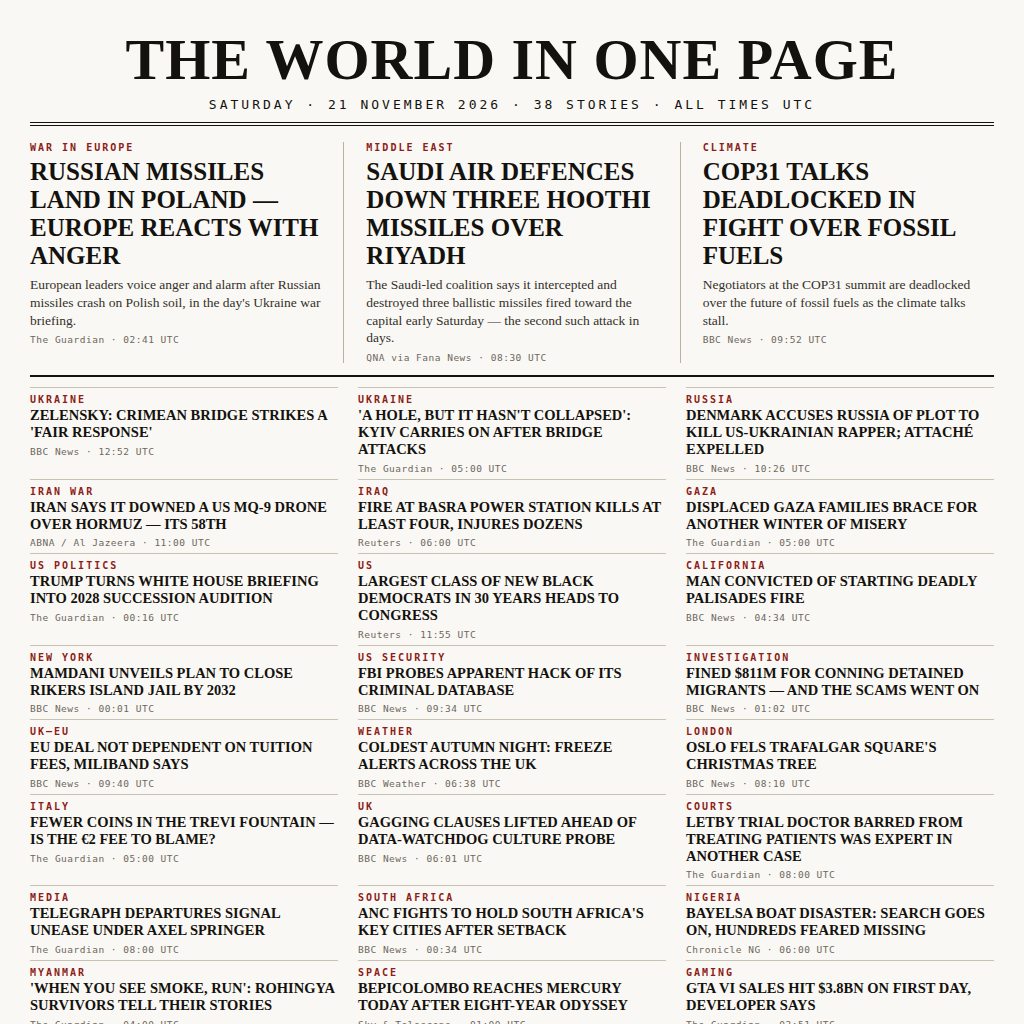
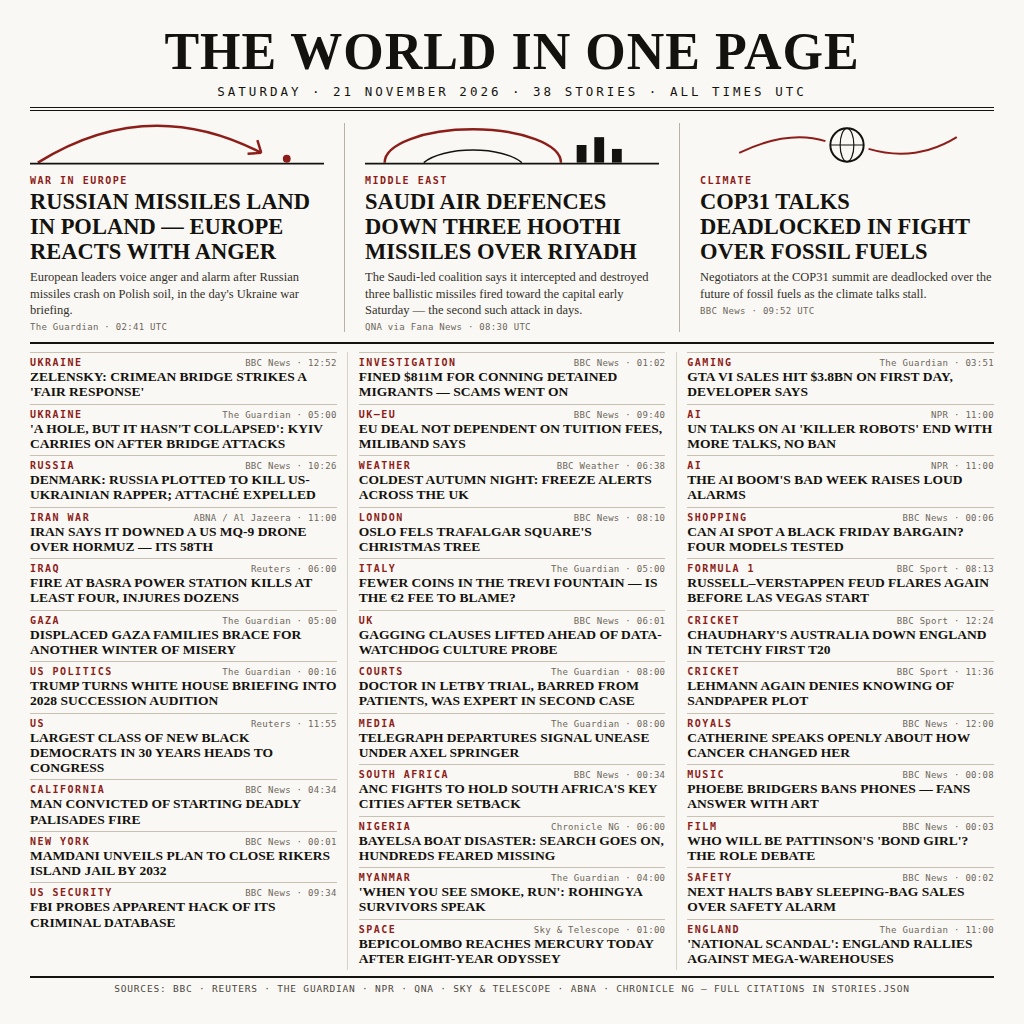
Pass 2: full composition — lead art, compact one-line tile meta, column flow, headline trims

Changed region(s): [[0.0312, 0.0312, 0.9688, 1.0]]

diff --git a/render/page.html b/render/page.html
@@ -5,34 +5,37 @@
     width: 1024px; height: 1024px; overflow: hidden;
     background: #faf8f4; color: #14120e;
     font-family: Georgia, "Times New Roman", "DejaVu Serif", serif;
-    padding: 26px 30px 18px;
+    padding: 22px 30px 14px;
   }
-  .masthead { text-align: center; border-bottom: 4px double #14120e; padding-bottom: 10px; }
-  .masthead h1 { font-size: 58px; letter-spacing: 1px; font-weight: 900; }
+  .masthead { text-align: center; border-bottom: 4px double #14120e; padding-bottom: 8px; }
+  .masthead h1 { font-size: 52px; letter-spacing: 1px; font-weight: 900; }
   .dateline {
-    font-family: "DejaVu Sans Mono", monospace; font-size: 13px;
-    letter-spacing: 3px; margin-top: 4px;
+    font-family: "DejaVu Sans Mono", monospace; font-size: 12.5px;
+    letter-spacing: 3px; margin-top: 3px;
   }
-  .leads { display: flex; gap: 22px; padding: 16px 0 12px; border-bottom: 2px solid #14120e; }
+  .leads { display: flex; gap: 20px; padding: 12px 0 10px; border-bottom: 2px solid #14120e; }
   .lead { flex: 1; }
-  .lead + .lead { border-left: 1px solid #b9b2a4; padding-left: 22px; }
+  .lead + .lead { border-left: 1px solid #b9b2a4; padding-left: 20px; }
+  .lead .art { margin-bottom: 4px; }
   .kicker {
     font-family: "DejaVu Sans Mono", monospace; font-size: 10px;
-    letter-spacing: 2px; color: #8c1d18; font-weight: bold;
+    letter-spacing: 1.5px; color: #8c1d18; font-weight: bold;
   }
-  .lead h2 { font-size: 25px; line-height: 1.12; margin: 5px 0 6px; font-weight: 900; }
-  .lead .deck { font-size: 13.5px; line-height: 1.32; color: #33302a; }
+  .lead h2 { font-size: 22.5px; line-height: 1.1; margin: 4px 0 5px; font-weight: 900; }
+  .lead .deck { font-size: 12.5px; line-height: 1.3; color: #33302a; }
   .tag {
-    font-family: "DejaVu Sans Mono", monospace; font-size: 9.5px;
-    color: #6d675c; margin-top: 5px; letter-spacing: 0.5px;
+    font-family: "DejaVu Sans Mono", monospace; font-size: 9px;
+    color: #6d675c; letter-spacing: 0.3px;
   }
-  .grid { display: grid; grid-template-columns: repeat(3, 1fr); column-gap: 20px; margin-top: 10px; }
-  .tile { border-top: 1px solid #c9c2b2; padding: 6px 0 5px; }
-  .tile h3 { font-size: 14.5px; line-height: 1.16; font-weight: 700; margin: 2px 0 0; }
+  .lead .tag { display: block; margin-top: 4px; }
+  .grid { columns: 3; column-gap: 22px; column-rule: 1px solid #d8d2c2; margin-top: 8px; }
+  .tile { break-inside: avoid; border-top: 1px solid #c9c2b2; padding: 4px 0 4px; }
+  .tilemeta { display: flex; justify-content: space-between; align-items: baseline; }
+  .tile h3 { font-size: 13.5px; line-height: 1.13; font-weight: 700; margin-top: 1px; }
   .footer {
-    border-top: 2px solid #14120e; margin-top: 8px; padding-top: 6px;
-    font-family: "DejaVu Sans Mono", monospace; font-size: 10px;
-    letter-spacing: 1px; text-align: center; color: #4c473e;
+    border-top: 2px solid #14120e; margin-top: 6px; padding-top: 5px;
+    font-family: "DejaVu Sans Mono", monospace; font-size: 9.5px;
+    letter-spacing: 0.8px; text-align: center; color: #4c473e;
   }
 </style></head><body>
   <header class="masthead">
@@ -41,18 +44,21 @@
   </header>
   <section class="leads">
     <article class="lead">
+      <div class="art"><svg viewBox="0 0 300 44" width="100%" height="44"><path d="M8 40 Q 120 -30 236 30" fill="none" stroke="#8c1d18" stroke-width="2.5"/><path d="M236 30 l-14 1 M236 30 l-4 -13" stroke="#8c1d18" stroke-width="2.5" fill="none"/><line x1="0" y1="41" x2="300" y2="41" stroke="#14120e" stroke-width="2"/><circle cx="262" cy="36" r="4" fill="#8c1d18"/></svg></div>
       <div class="kicker">WAR IN EUROPE</div>
       <h2>RUSSIAN MISSILES LAND IN POLAND — EUROPE REACTS WITH ANGER</h2>
       <p class="deck">European leaders voice anger and alarm after Russian missiles crash on Polish soil, in the day's Ukraine war briefing.</p>
       <div class="tag">The Guardian · 02:41 UTC</div>
     </article>
     <article class="lead">
+      <div class="art"><svg viewBox="0 0 300 44" width="100%" height="44"><path d="M20 40 A 90 34 0 0 1 200 40" fill="none" stroke="#8c1d18" stroke-width="2.5"/><path d="M60 40 A 55 22 0 0 1 160 40" fill="none" stroke="#14120e" stroke-width="1.5"/><rect x="216" y="22" width="10" height="18" fill="#14120e"/><rect x="234" y="14" width="10" height="26" fill="#14120e"/><rect x="252" y="26" width="10" height="14" fill="#14120e"/><line x1="0" y1="41" x2="300" y2="41" stroke="#14120e" stroke-width="2"/></svg></div>
       <div class="kicker">MIDDLE EAST</div>
       <h2>SAUDI AIR DEFENCES DOWN THREE HOOTHI MISSILES OVER RIYADH</h2>
       <p class="deck">The Saudi-led coalition says it intercepted and destroyed three ballistic missiles fired toward the capital early Saturday — the second such attack in days.</p>
       <div class="tag">QNA via Fana News · 08:30 UTC</div>
     </article>
     <article class="lead">
+      <div class="art"><svg viewBox="0 0 300 44" width="100%" height="44"><circle cx="150" cy="22" r="17" fill="none" stroke="#14120e" stroke-width="2"/><ellipse cx="150" cy="22" rx="7" ry="17" fill="none" stroke="#14120e" stroke-width="1.2"/><line x1="133" y1="22" x2="167" y2="22" stroke="#14120e" stroke-width="1.2"/><path d="M40 30 Q 90 6 128 18 M172 26 Q 220 40 262 14" fill="none" stroke="#8c1d18" stroke-width="2"/></svg></div>
       <div class="kicker">CLIMATE</div>
       <h2>COP31 TALKS DEADLOCKED IN FIGHT OVER FOSSIL FUELS</h2>
       <p class="deck">Negotiators at the COP31 summit are deadlocked over the future of fossil fuels as the climate talks stall.</p>
@@ -60,179 +66,144 @@
     </article></section>
   <section class="grid">
     <article class="tile">
-      <div class="kicker">UKRAINE</div>
+      <div class="tilemeta"><span class="kicker">UKRAINE</span><span class="tag">BBC News · 12:52</span></div>
       <h3>ZELENSKY: CRIMEAN BRIDGE STRIKES A 'FAIR RESPONSE'</h3>
-      <div class="tag">BBC News · 12:52 UTC</div>
     </article>
     <article class="tile">
-      <div class="kicker">UKRAINE</div>
+      <div class="tilemeta"><span class="kicker">UKRAINE</span><span class="tag">The Guardian · 05:00</span></div>
       <h3>'A HOLE, BUT IT HASN'T COLLAPSED': KYIV CARRIES ON AFTER BRIDGE ATTACKS</h3>
-      <div class="tag">The Guardian · 05:00 UTC</div>
     </article>
     <article class="tile">
-      <div class="kicker">RUSSIA</div>
-      <h3>DENMARK ACCUSES RUSSIA OF PLOT TO KILL US-UKRAINIAN RAPPER; ATTACHÉ EXPELLED</h3>
-      <div class="tag">BBC News · 10:26 UTC</div>
+      <div class="tilemeta"><span class="kicker">RUSSIA</span><span class="tag">BBC News · 10:26</span></div>
+      <h3>DENMARK: RUSSIA PLOTTED TO KILL US-UKRAINIAN RAPPER; ATTACHÉ EXPELLED</h3>
     </article>
     <article class="tile">
-      <div class="kicker">IRAN WAR</div>
+      <div class="tilemeta"><span class="kicker">IRAN WAR</span><span class="tag">ABNA / Al Jazeera · 11:00</span></div>
       <h3>IRAN SAYS IT DOWNED A US MQ-9 DRONE OVER HORMUZ — ITS 58TH</h3>
-      <div class="tag">ABNA / Al Jazeera · 11:00 UTC</div>
     </article>
     <article class="tile">
-      <div class="kicker">IRAQ</div>
+      <div class="tilemeta"><span class="kicker">IRAQ</span><span class="tag">Reuters · 06:00</span></div>
       <h3>FIRE AT BASRA POWER STATION KILLS AT LEAST FOUR, INJURES DOZENS</h3>
-      <div class="tag">Reuters · 06:00 UTC</div>
     </article>
     <article class="tile">
-      <div class="kicker">GAZA</div>
+      <div class="tilemeta"><span class="kicker">GAZA</span><span class="tag">The Guardian · 05:00</span></div>
       <h3>DISPLACED GAZA FAMILIES BRACE FOR ANOTHER WINTER OF MISERY</h3>
-      <div class="tag">The Guardian · 05:00 UTC</div>
     </article>
     <article class="tile">
-      <div class="kicker">US POLITICS</div>
+      <div class="tilemeta"><span class="kicker">US POLITICS</span><span class="tag">The Guardian · 00:16</span></div>
       <h3>TRUMP TURNS WHITE HOUSE BRIEFING INTO 2028 SUCCESSION AUDITION</h3>
-      <div class="tag">The Guardian · 00:16 UTC</div>
     </article>
     <article class="tile">
-      <div class="kicker">US</div>
+      <div class="tilemeta"><span class="kicker">US</span><span class="tag">Reuters · 11:55</span></div>
       <h3>LARGEST CLASS OF NEW BLACK DEMOCRATS IN 30 YEARS HEADS TO CONGRESS</h3>
-      <div class="tag">Reuters · 11:55 UTC</div>
     </article>
     <article class="tile">
-      <div class="kicker">CALIFORNIA</div>
+      <div class="tilemeta"><span class="kicker">CALIFORNIA</span><span class="tag">BBC News · 04:34</span></div>
       <h3>MAN CONVICTED OF STARTING DEADLY PALISADES FIRE</h3>
-      <div class="tag">BBC News · 04:34 UTC</div>
     </article>
     <article class="tile">
-      <div class="kicker">NEW YORK</div>
+      <div class="tilemeta"><span class="kicker">NEW YORK</span><span class="tag">BBC News · 00:01</span></div>
       <h3>MAMDANI UNVEILS PLAN TO CLOSE RIKERS ISLAND JAIL BY 2032</h3>
-      <div class="tag">BBC News · 00:01 UTC</div>
     </article>
     <article class="tile">
-      <div class="kicker">US SECURITY</div>
+      <div class="tilemeta"><span class="kicker">US SECURITY</span><span class="tag">BBC News · 09:34</span></div>
       <h3>FBI PROBES APPARENT HACK OF ITS CRIMINAL DATABASE</h3>
-      <div class="tag">BBC News · 09:34 UTC</div>
     </article>
     <article class="tile">
-      <div class="kicker">INVESTIGATION</div>
-      <h3>FINED $811M FOR CONNING DETAINED MIGRANTS — AND THE SCAMS WENT ON</h3>
-      <div class="tag">BBC News · 01:02 UTC</div>
+      <div class="tilemeta"><span class="kicker">INVESTIGATION</span><span class="tag">BBC News · 01:02</span></div>
+      <h3>FINED $811M FOR CONNING DETAINED MIGRANTS — SCAMS WENT ON</h3>
     </article>
     <article class="tile">
-      <div class="kicker">UK–EU</div>
+      <div class="tilemeta"><span class="kicker">UK–EU</span><span class="tag">BBC News · 09:40</span></div>
       <h3>EU DEAL NOT DEPENDENT ON TUITION FEES, MILIBAND SAYS</h3>
-      <div class="tag">BBC News · 09:40 UTC</div>
     </article>
     <article class="tile">
-      <div class="kicker">WEATHER</div>
+      <div class="tilemeta"><span class="kicker">WEATHER</span><span class="tag">BBC Weather · 06:38</span></div>
       <h3>COLDEST AUTUMN NIGHT: FREEZE ALERTS ACROSS THE UK</h3>
-      <div class="tag">BBC Weather · 06:38 UTC</div>
     </article>
     <article class="tile">
-      <div class="kicker">LONDON</div>
+      <div class="tilemeta"><span class="kicker">LONDON</span><span class="tag">BBC News · 08:10</span></div>
       <h3>OSLO FELS TRAFALGAR SQUARE'S CHRISTMAS TREE</h3>
-      <div class="tag">BBC News · 08:10 UTC</div>
     </article>
     <article class="tile">
-      <div class="kicker">ITALY</div>
+      <div class="tilemeta"><span class="kicker">ITALY</span><span class="tag">The Guardian · 05:00</span></div>
       <h3>FEWER COINS IN THE TREVI FOUNTAIN — IS THE €2 FEE TO BLAME?</h3>
-      <div class="tag">The Guardian · 05:00 UTC</div>
     </article>
     <article class="tile">
-      <div class="kicker">UK</div>
+      <div class="tilemeta"><span class="kicker">UK</span><span class="tag">BBC News · 06:01</span></div>
       <h3>GAGGING CLAUSES LIFTED AHEAD OF DATA-WATCHDOG CULTURE PROBE</h3>
-      <div class="tag">BBC News · 06:01 UTC</div>
     </article>
     <article class="tile">
-      <div class="kicker">COURTS</div>
-      <h3>LETBY TRIAL DOCTOR BARRED FROM TREATING PATIENTS WAS EXPERT IN ANOTHER CASE</h3>
-      <div class="tag">The Guardian · 08:00 UTC</div>
+      <div class="tilemeta"><span class="kicker">COURTS</span><span class="tag">The Guardian · 08:00</span></div>
+      <h3>DOCTOR IN LETBY TRIAL, BARRED FROM PATIENTS, WAS EXPERT IN SECOND CASE</h3>
     </article>
     <article class="tile">
-      <div class="kicker">MEDIA</div>
+      <div class="tilemeta"><span class="kicker">MEDIA</span><span class="tag">The Guardian · 08:00</span></div>
       <h3>TELEGRAPH DEPARTURES SIGNAL UNEASE UNDER AXEL SPRINGER</h3>
-      <div class="tag">The Guardian · 08:00 UTC</div>
     </article>
     <article class="tile">
-      <div class="kicker">SOUTH AFRICA</div>
+      <div class="tilemeta"><span class="kicker">SOUTH AFRICA</span><span class="tag">BBC News · 00:34</span></div>
       <h3>ANC FIGHTS TO HOLD SOUTH AFRICA'S KEY CITIES AFTER SETBACK</h3>
-      <div class="tag">BBC News · 00:34 UTC</div>
     </article>
     <article class="tile">
-      <div class="kicker">NIGERIA</div>
+      <div class="tilemeta"><span class="kicker">NIGERIA</span><span class="tag">Chronicle NG · 06:00</span></div>
       <h3>BAYELSA BOAT DISASTER: SEARCH GOES ON, HUNDREDS FEARED MISSING</h3>
-      <div class="tag">Chronicle NG · 06:00 UTC</div>
     </article>
     <article class="tile">
-      <div class="kicker">MYANMAR</div>
-      <h3>'WHEN YOU SEE SMOKE, RUN': ROHINGYA SURVIVORS TELL THEIR STORIES</h3>
-      <div class="tag">The Guardian · 04:00 UTC</div>
+      <div class="tilemeta"><span class="kicker">MYANMAR</span><span class="tag">The Guardian · 04:00</span></div>
+      <h3>'WHEN YOU SEE SMOKE, RUN': ROHINGYA SURVIVORS SPEAK</h3>
     </article>
     <article class="tile">
-      <div class="kicker">SPACE</div>
+      <div class="tilemeta"><span class="kicker">SPACE</span><span class="tag">Sky &amp; Telescope · 01:00</span></div>
       <h3>BEPICOLOMBO REACHES MERCURY TODAY AFTER EIGHT-YEAR ODYSSEY</h3>
-      <div class="tag">Sky &amp; Telescope · 01:00 UTC</div>
     </article>
     <article class="tile">
-      <div class="kicker">GAMING</div>
+      <div class="tilemeta"><span class="kicker">GAMING</span><span class="tag">The Guardian · 03:51</span></div>
       <h3>GTA VI SALES HIT $3.8BN ON FIRST DAY, DEVELOPER SAYS</h3>
-      <div class="tag">The Guardian · 03:51 UTC</div>
     </article>
     <article class="tile">
-      <div class="kicker">AI</div>
+      <div class="tilemeta"><span class="kicker">AI</span><span class="tag">NPR · 11:00</span></div>
       <h3>UN TALKS ON AI 'KILLER ROBOTS' END WITH MORE TALKS, NO BAN</h3>
-      <div class="tag">NPR · 11:00 UTC</div>
     </article>
     <article class="tile">
-      <div class="kicker">AI</div>
+      <div class="tilemeta"><span class="kicker">AI</span><span class="tag">NPR · 11:00</span></div>
       <h3>THE AI BOOM'S BAD WEEK RAISES LOUD ALARMS</h3>
-      <div class="tag">NPR · 11:00 UTC</div>
     </article>
     <article class="tile">
-      <div class="kicker">SHOPPING</div>
+      <div class="tilemeta"><span class="kicker">SHOPPING</span><span class="tag">BBC News · 00:06</span></div>
       <h3>CAN AI SPOT A BLACK FRIDAY BARGAIN? FOUR MODELS TESTED</h3>
-      <div class="tag">BBC News · 00:06 UTC</div>
     </article>
     <article class="tile">
-      <div class="kicker">FORMULA 1</div>
+      <div class="tilemeta"><span class="kicker">FORMULA 1</span><span class="tag">BBC Sport · 08:13</span></div>
       <h3>RUSSELL–VERSTAPPEN FEUD FLARES AGAIN BEFORE LAS VEGAS START</h3>
-      <div class="tag">BBC Sport · 08:13 UTC</div>
     </article>
     <article class="tile">
-      <div class="kicker">CRICKET</div>
+      <div class="tilemeta"><span class="kicker">CRICKET</span><span class="tag">BBC Sport · 12:24</span></div>
       <h3>CHAUDHARY'S AUSTRALIA DOWN ENGLAND IN TETCHY FIRST T20</h3>
-      <div class="tag">BBC Sport · 12:24 UTC</div>
     </article>
     <article class="tile">
-      <div class="kicker">CRICKET</div>
+      <div class="tilemeta"><span class="kicker">CRICKET</span><span class="tag">BBC Sport · 11:36</span></div>
       <h3>LEHMANN AGAIN DENIES KNOWING OF SANDPAPER PLOT</h3>
-      <div class="tag">BBC Sport · 11:36 UTC</div>
     </article>
     <article class="tile">
-      <div class="kicker">ROYALS</div>
+      <div class="tilemeta"><span class="kicker">ROYALS</span><span class="tag">BBC News · 12:00</span></div>
       <h3>CATHERINE SPEAKS OPENLY ABOUT HOW CANCER CHANGED HER</h3>
-      <div class="tag">BBC News · 12:00 UTC</div>
     </article>
     <article class="tile">
-      <div class="kicker">MUSIC</div>
+      <div class="tilemeta"><span class="kicker">MUSIC</span><span class="tag">BBC News · 00:08</span></div>
       <h3>PHOEBE BRIDGERS BANS PHONES — FANS ANSWER WITH ART</h3>
-      <div class="tag">BBC News · 00:08 UTC</div>
     </article>
     <article class="tile">
-      <div class="kicker">FILM</div>
+      <div class="tilemeta"><span class="kicker">FILM</span><span class="tag">BBC News · 00:03</span></div>
       <h3>WHO WILL BE PATTINSON'S 'BOND GIRL'? THE ROLE DEBATE</h3>
-      <div class="tag">BBC News · 00:03 UTC</div>
     </article>
     <article class="tile">
-      <div class="kicker">SAFETY</div>
+      <div class="tilemeta"><span class="kicker">SAFETY</span><span class="tag">BBC News · 00:02</span></div>
       <h3>NEXT HALTS BABY SLEEPING-BAG SALES OVER SAFETY ALARM</h3>
-      <div class="tag">BBC News · 00:02 UTC</div>
     </article>
     <article class="tile">
-      <div class="kicker">ENGLAND</div>
-      <h3>'NATIONAL SCANDAL': ENGLAND RESIDENTS RALLY AGAINST MEGA-WAREHOUSES</h3>
-      <div class="tag">The Guardian · 11:00 UTC</div>
+      <div class="tilemeta"><span class="kicker">ENGLAND</span><span class="tag">The Guardian · 11:00</span></div>
+      <h3>'NATIONAL SCANDAL': ENGLAND RALLIES AGAINST MEGA-WAREHOUSES</h3>
     </article></section>
   <footer class="footer">SOURCES: BBC · REUTERS · THE GUARDIAN · NPR · QNA · SKY &amp; TELESCOPE · ABNA · CHRONICLE NG — FULL CITATIONS IN STORIES.JSON</footer>
 </body></html>
